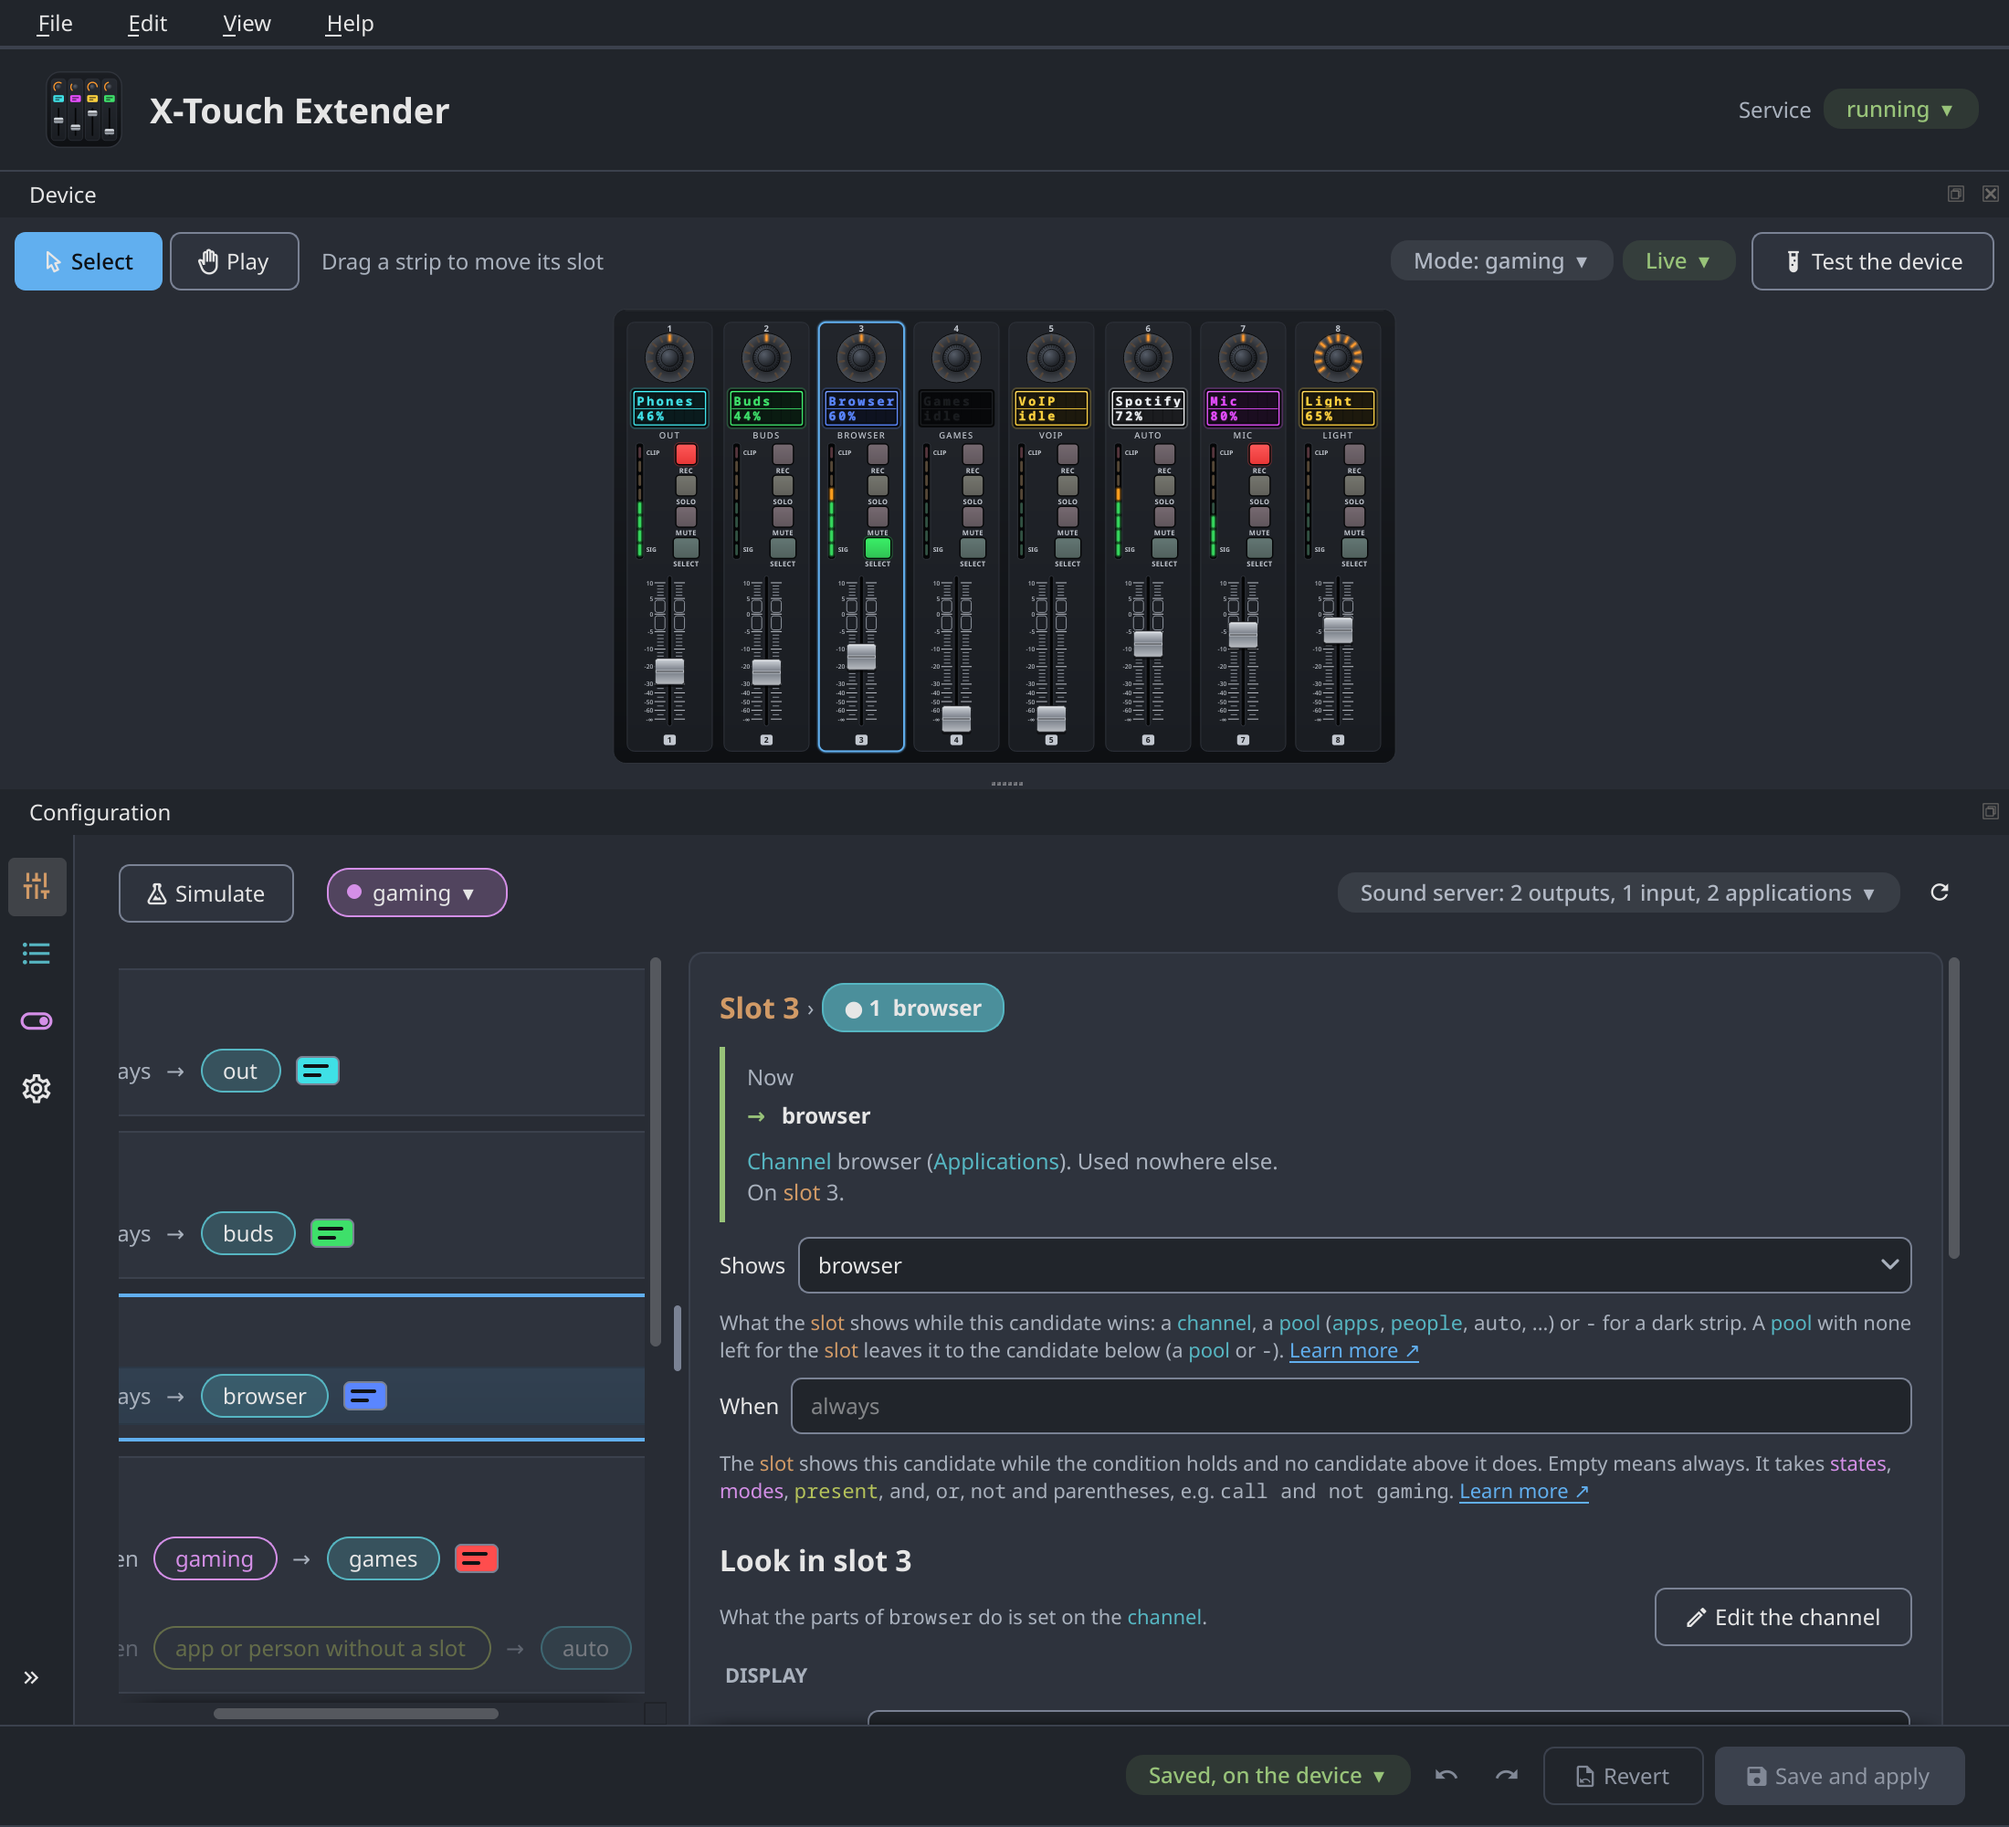
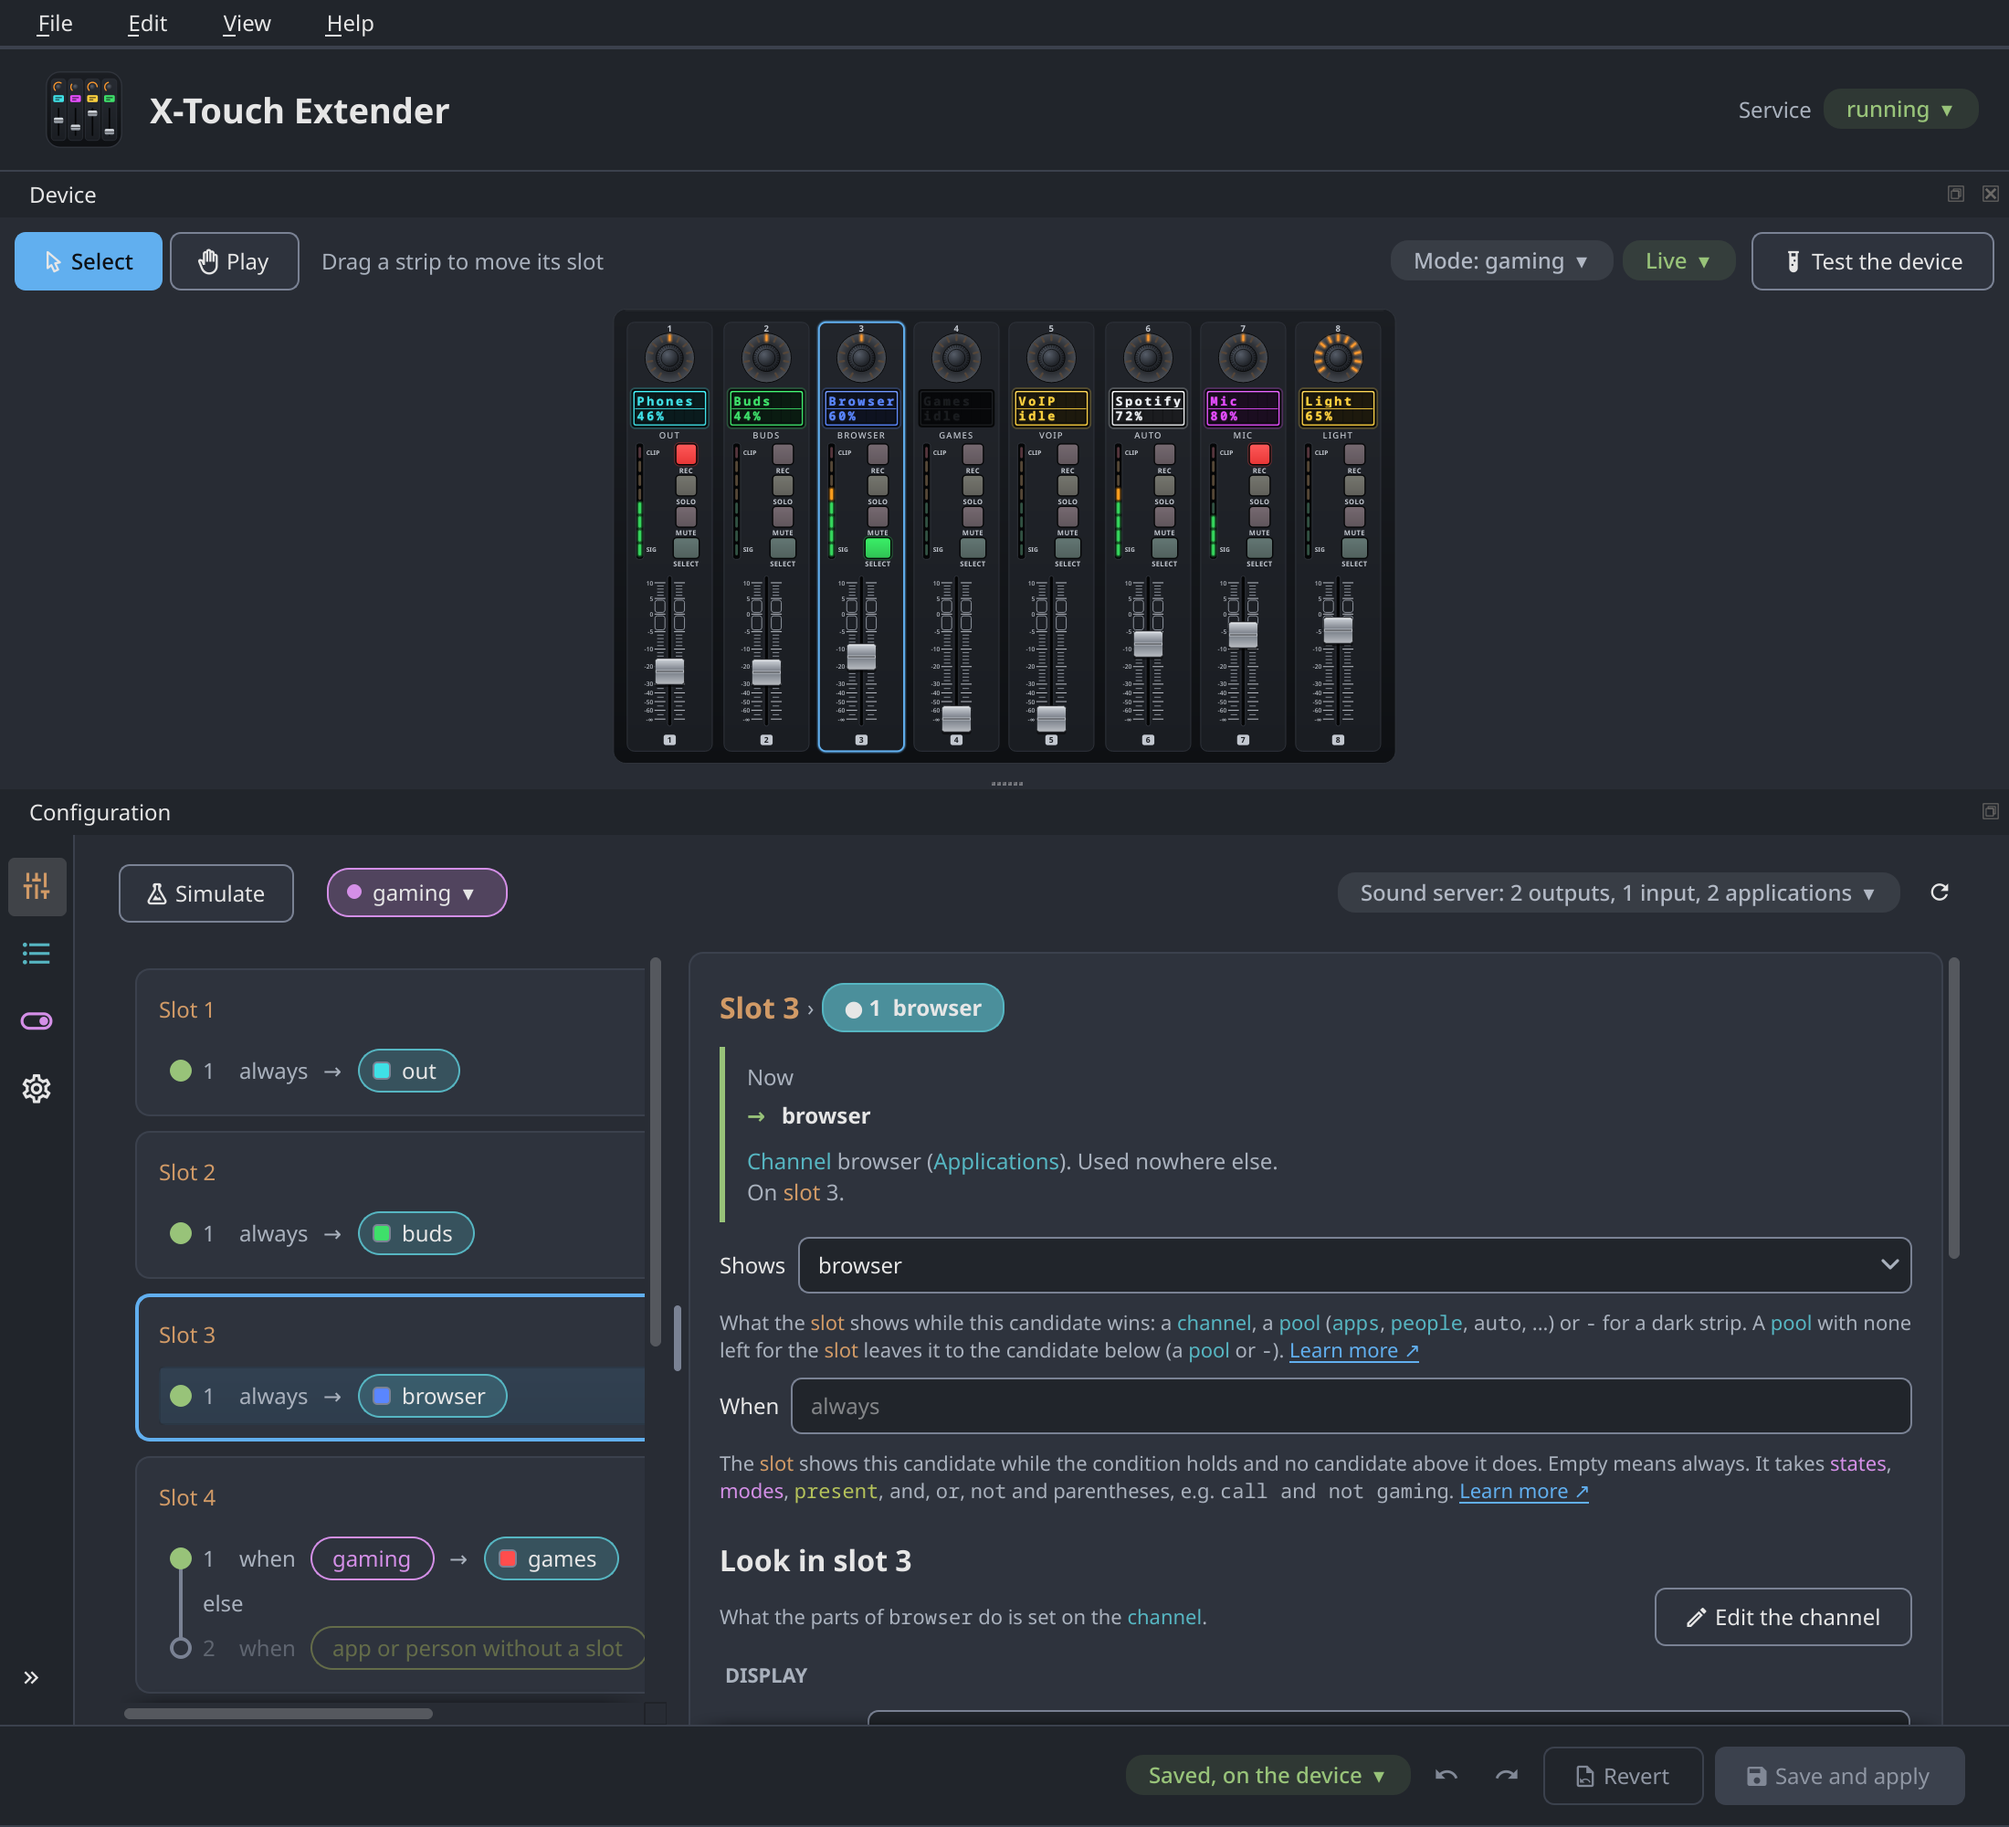
GUI: the LCD color is a square in the chip of what a candidate shows
Replaces the tiny LCD after each row of the slot cards, so the rows get
narrower. Picking a slot scrolls the cards up and down only: before,
a card wider than the pane scrolled to its right end.

diff --git a/src/xtouch_daemon/gui/qt/pages/slot_cards.py b/src/xtouch_daemon/gui/qt/pages/slot_cards.py
@@ -1,6 +1,7 @@
 """
 The cards of the page Slots: the candidates of a slot on a rail (`StackList`), each as a rule (`candidate_rule`):
-its condition as chips, what it shows, and where it stands against the one the device shows.
+its condition as chips, what it shows (with the colors of its LCD, see `ShowChip`), and where it stands against the
+one the device shows.
 """
 
 from collections.abc import Mapping
@@ -13,6 +14,7 @@ from PyQt6.QtWidgets import (
     QFrame,
     QGraphicsOpacityEffect,
     QHBoxLayout,
+    QLabel,
     QListWidget,
     QListWidgetItem,
     QVBoxLayout,
@@ -225,6 +227,39 @@ class CandidateRow(QWidget):
             painter.drawText(band, Qt.AlignmentFlag.AlignVCenter | Qt.AlignmentFlag.AlignLeft, "else")
 
 
+SWATCH = 10
+"""The side of a swatch of an LCD color in the chip of what a slot shows."""
+
+
+class ShowChip(QLabel):
+    """
+    What a candidate shows as a filled chip in the color of the channels, with the backlights its LCD can have as
+    small swatches before the name: one for a channel, several for a pool that hands out channels of other colors.
+    """
+
+    def __init__(self, text: str, colors: tuple[str, ...]):
+        super().__init__(text)
+        set_role(self, "chip")
+        set_role(self, Entity.CHANNEL.value, "entity")
+        self.colors = colors
+        if colors:
+            # room for the swatches, before the padding of the chip
+            self.setContentsMargins(len(colors) * (SWATCH + Space.XS) - Space.XS // 2, 0, 0, 0)
+
+    def paintEvent(self, a0: QPaintEvent | None) -> None:
+        super().paintEvent(a0)
+        if not self.colors:
+            return
+        painter = QPainter(self)
+        painter.setRenderHint(QPainter.RenderHint.Antialiasing)
+        painter.setPen(QPen(QColor(current_colors().control_border), 1))
+        top = (self.height() - SWATCH) / 2
+        for index, color in enumerate(self.colors):
+            painter.setBrush(QColor(LCD_COLORS[color]))
+            left = Space.S + index * (SWATCH + Space.XS)
+            painter.drawRoundedRect(QRectF(left + 0.5, top + 0.5, SWATCH - 1, SWATCH - 1), 2, 2)
+
+
 def chip(text: str, show: str, values: Mapping[str, Any]) -> QWidget:
     """
     A part of a condition as an outlined chip: in words (`present` says what has to be present, see `readable`), in
@@ -286,18 +321,21 @@ def candidate_rule(
                 layout.addWidget(label("or", "hint"))
             layout.addWidget(chip(part, candidate.show, values))
     layout.addWidget(label("→", "hint"))
+    # a color the LCD has no backlight for has no swatch: the problems name it
+    colors = tuple((color, where) for color, where in lcd_colors(values, candidate) if color in LCD_COLORS)
+    lcd = "\n".join(f"The LCD: {color} ({where})" for color, where in colors)
     if candidate.show == EMPTY:
         layout.addWidget(label(candidate.show, "hint"))
-    elif member is not None:
-        name, waiting = member
-        shows = entity_label(f"{candidate.show} · {name}", Entity.CHANNEL, True)
-        shows.setToolTip(f"{candidate.show} hands out {name} here. " + (waiting or "Nobody else waits for a slot."))
-        layout.addWidget(shows)
-    else:
-        layout.addWidget(entity_label(candidate.show, Entity.CHANNEL, True))
-    for color, where in lcd_colors(values, candidate):
-        if color in LCD_COLORS:
+        for color, where in colors:
             layout.addWidget(LcdBadge(color, f"{color}: {where}"))
+    else:
+        text = candidate.show if member is None else f"{candidate.show} · {member[0]}"
+        shows = ShowChip(text, tuple(color for color, _ in colors))
+        tip = ""
+        if member is not None:
+            tip = f"{candidate.show} hands out {member[0]} here. " + (member[1] or "Nobody else waits for a slot.")
+        shows.setToolTip("\n\n".join(part for part in (tip, lcd) if part))
+        layout.addWidget(shows)
     # a color the LCD has no backlight for stays as text, for the problems to name
     rest = {
         name: value

diff --git a/tests/gui/qt/test_slots.py b/tests/gui/qt/test_slots.py
@@ -16,7 +16,8 @@ from tests.support.gui import snapshot as device_snapshot
 from xtouch_daemon.gui.domain.live_preview import Place
 from xtouch_daemon.gui.domain.simulate import WhatIf
 from xtouch_daemon.gui.qt.fields.basics import DOT_ICON
-from xtouch_daemon.gui.qt.pages.slot_cards import CandidateRow, StackList
+from xtouch_daemon.gui.qt.fields.controls import LcdBadge
+from xtouch_daemon.gui.qt.pages.slot_cards import CandidateRow, ShowChip, StackList
 from xtouch_daemon.gui.qt.pages.slots import SlotsPanel
 from xtouch_daemon.gui.qt.theme import style
 from xtouch_daemon.gui.qt.theme.tokens import THEMES, ThemeMode
@@ -374,6 +375,37 @@ def test_a_place_shows_what_it_takes_from_its_channel_or_pool(window: MainWindow
     # nothing: no look
     page.lists[2].setCurrentRow(2)
     assert page.place_header.isHidden()
+
+
+def test_the_chip_of_what_a_candidate_shows_has_the_colors_of_its_lcd(window: MainWindow):
+    page = panel(window)
+    window.document.set(("slots", "1"), [{"show": "out", "color": "red"}])
+    window.document.set(("slots", "3"), "-")
+    window.editor.edited()
+    row = page.lists[0].itemWidget(page.lists[0].item(0))  # pyright: ignore[reportArgumentType]
+    assert row is not None
+    (shows,) = row.findChildren(ShowChip)
+    assert shows.text() == "out"
+    assert shows.colors == ("red",)
+    assert "The LCD: red (color of this candidate)" in shows.toolTip()
+    # the swatches have room before the name
+    assert shows.contentsMargins().left() > 0
+    assert shows.grab().size() == shows.size()
+    # a dark strip has no chip: a tiny dark LCD
+    dark = page.lists[2].itemWidget(page.lists[2].item(0))  # pyright: ignore[reportArgumentType]
+    assert dark is not None
+    assert not dark.findChildren(ShowChip)
+    assert [badge.name for badge in dark.findChildren(LcdBadge)] == ["off"]
+
+
+def test_picking_a_slot_scrolls_the_cards_only_up_and_down(window: MainWindow):
+    page = panel(window)
+    bar = page.card_scroll.horizontalScrollBar()
+    assert bar is not None
+    bar.setRange(0, 100)
+    bar.setValue(50)
+    page.select_slot(4)
+    assert bar.value() == 0
 
 
 def test_problems_show_on_the_card_and_in_the_inspector(window: MainWindow):

diff --git a/src/xtouch_daemon/gui/qt/pages/slots.py b/src/xtouch_daemon/gui/qt/pages/slots.py
@@ -848,6 +848,8 @@ class SlotsPanel(Page):
         stack = self.lists[slot - 1]
         stack.setFocus()
         self.card_scroll.ensureWidgetVisible(self.card_frames[slot - 1])
+        # up and down only: a card wider than the pane would scroll to its right end, cutting off its conditions
+        self.card_scroll.horizontalScrollBar().setValue(0)  # pyright: ignore[reportOptionalMemberAccess]
 
     def pick_slot(self, slot: int) -> None:
         """The card of a slot was clicked beside its candidates: the slot alone, with no candidate."""

diff --git a/docs/guides/gui.md b/docs/guides/gui.md
@@ -255,17 +255,17 @@ the rail ends in "nothing to show: the strip is dark".
 **The chips:**
 
 - What the slot shows is a filled teal chip. On the one shown, the chip of a pool names what it hands out
-  (`apps · firefox`, `people · Alice`).
+  (`apps · firefox`, `people · Alice`). A small square at the start of the chip has the backlight color the LCD gets
+  with this candidate, e.g. blue for `browser` (see below).
 - Conditions are outlined chips; the states are violet.
 - `present` is spelled out in an olive chip (green in the light theme), by the type of the channel: `mic if present`
   reads `mic is connected`, `mum if present` reads `mum is in the voice chat`, `present(people)` reads `someone is in
   the voice chat`.
 
-![An LCD with a blue backlight](../images/controls/lcd.png){ .xt-part width="96" }
-
-**A tiny LCD** after a row has the color of the strip: the candidate's own `color`, else the channel's or the pool's,
-else white. A candidate that can show several colors (`auto`: applications and people) has several. Its tooltip says
-where the color comes from.
+**The color square** in the chip of what the slot shows is the backlight of the LCD: the candidate's own `color`,
+else the channel's or the pool's, else white. A candidate that can show several colors (`auto`: applications and
+people) has a square for each. The tooltip of the chip says where each color comes from. A dark strip (`-`) has a
+tiny dark LCD after it instead.
 
 **Editing:** + adds `auto` at the end; the bin (or ++del++) removes the candidate picked; drag a candidate, or move it
 with ++ctrl+up++ and ++ctrl+down++.

diff --git a/CHANGELOG.md b/CHANGELOG.md
@@ -116,6 +116,9 @@ The format is based on [Keep a Changelog](https://keepachangelog.com/en/1.1.0/),
   nothing could undo a pick. The card of the slot picked has an outline, and the drawing selects its strip, also when
   a candidate is picked on the page. The window opens with nothing picked: an overview of all slots (what each shows,
   its candidates and problems) takes the place of the inspector, which showed slot 1 before.
+- GUI: on the cards of the page Slots, the backlight color of the LCD is a small square inside the chip of what a
+  candidate shows, instead of a tiny LCD after the row; the rows get narrower. Picking a slot no longer scrolls the
+  cards sideways to their right end.
 - Documentation: the hardware is "the control surface" (the physical one where the virtual one is the other choice),
   and a fact of the model names "the X-Touch Extender". "The X-Touch" meant the Extender, but it is the bigger desk
   with 9 faders, which the daemon doesn't need; a test fails a page that says it alone. Claims that the code
